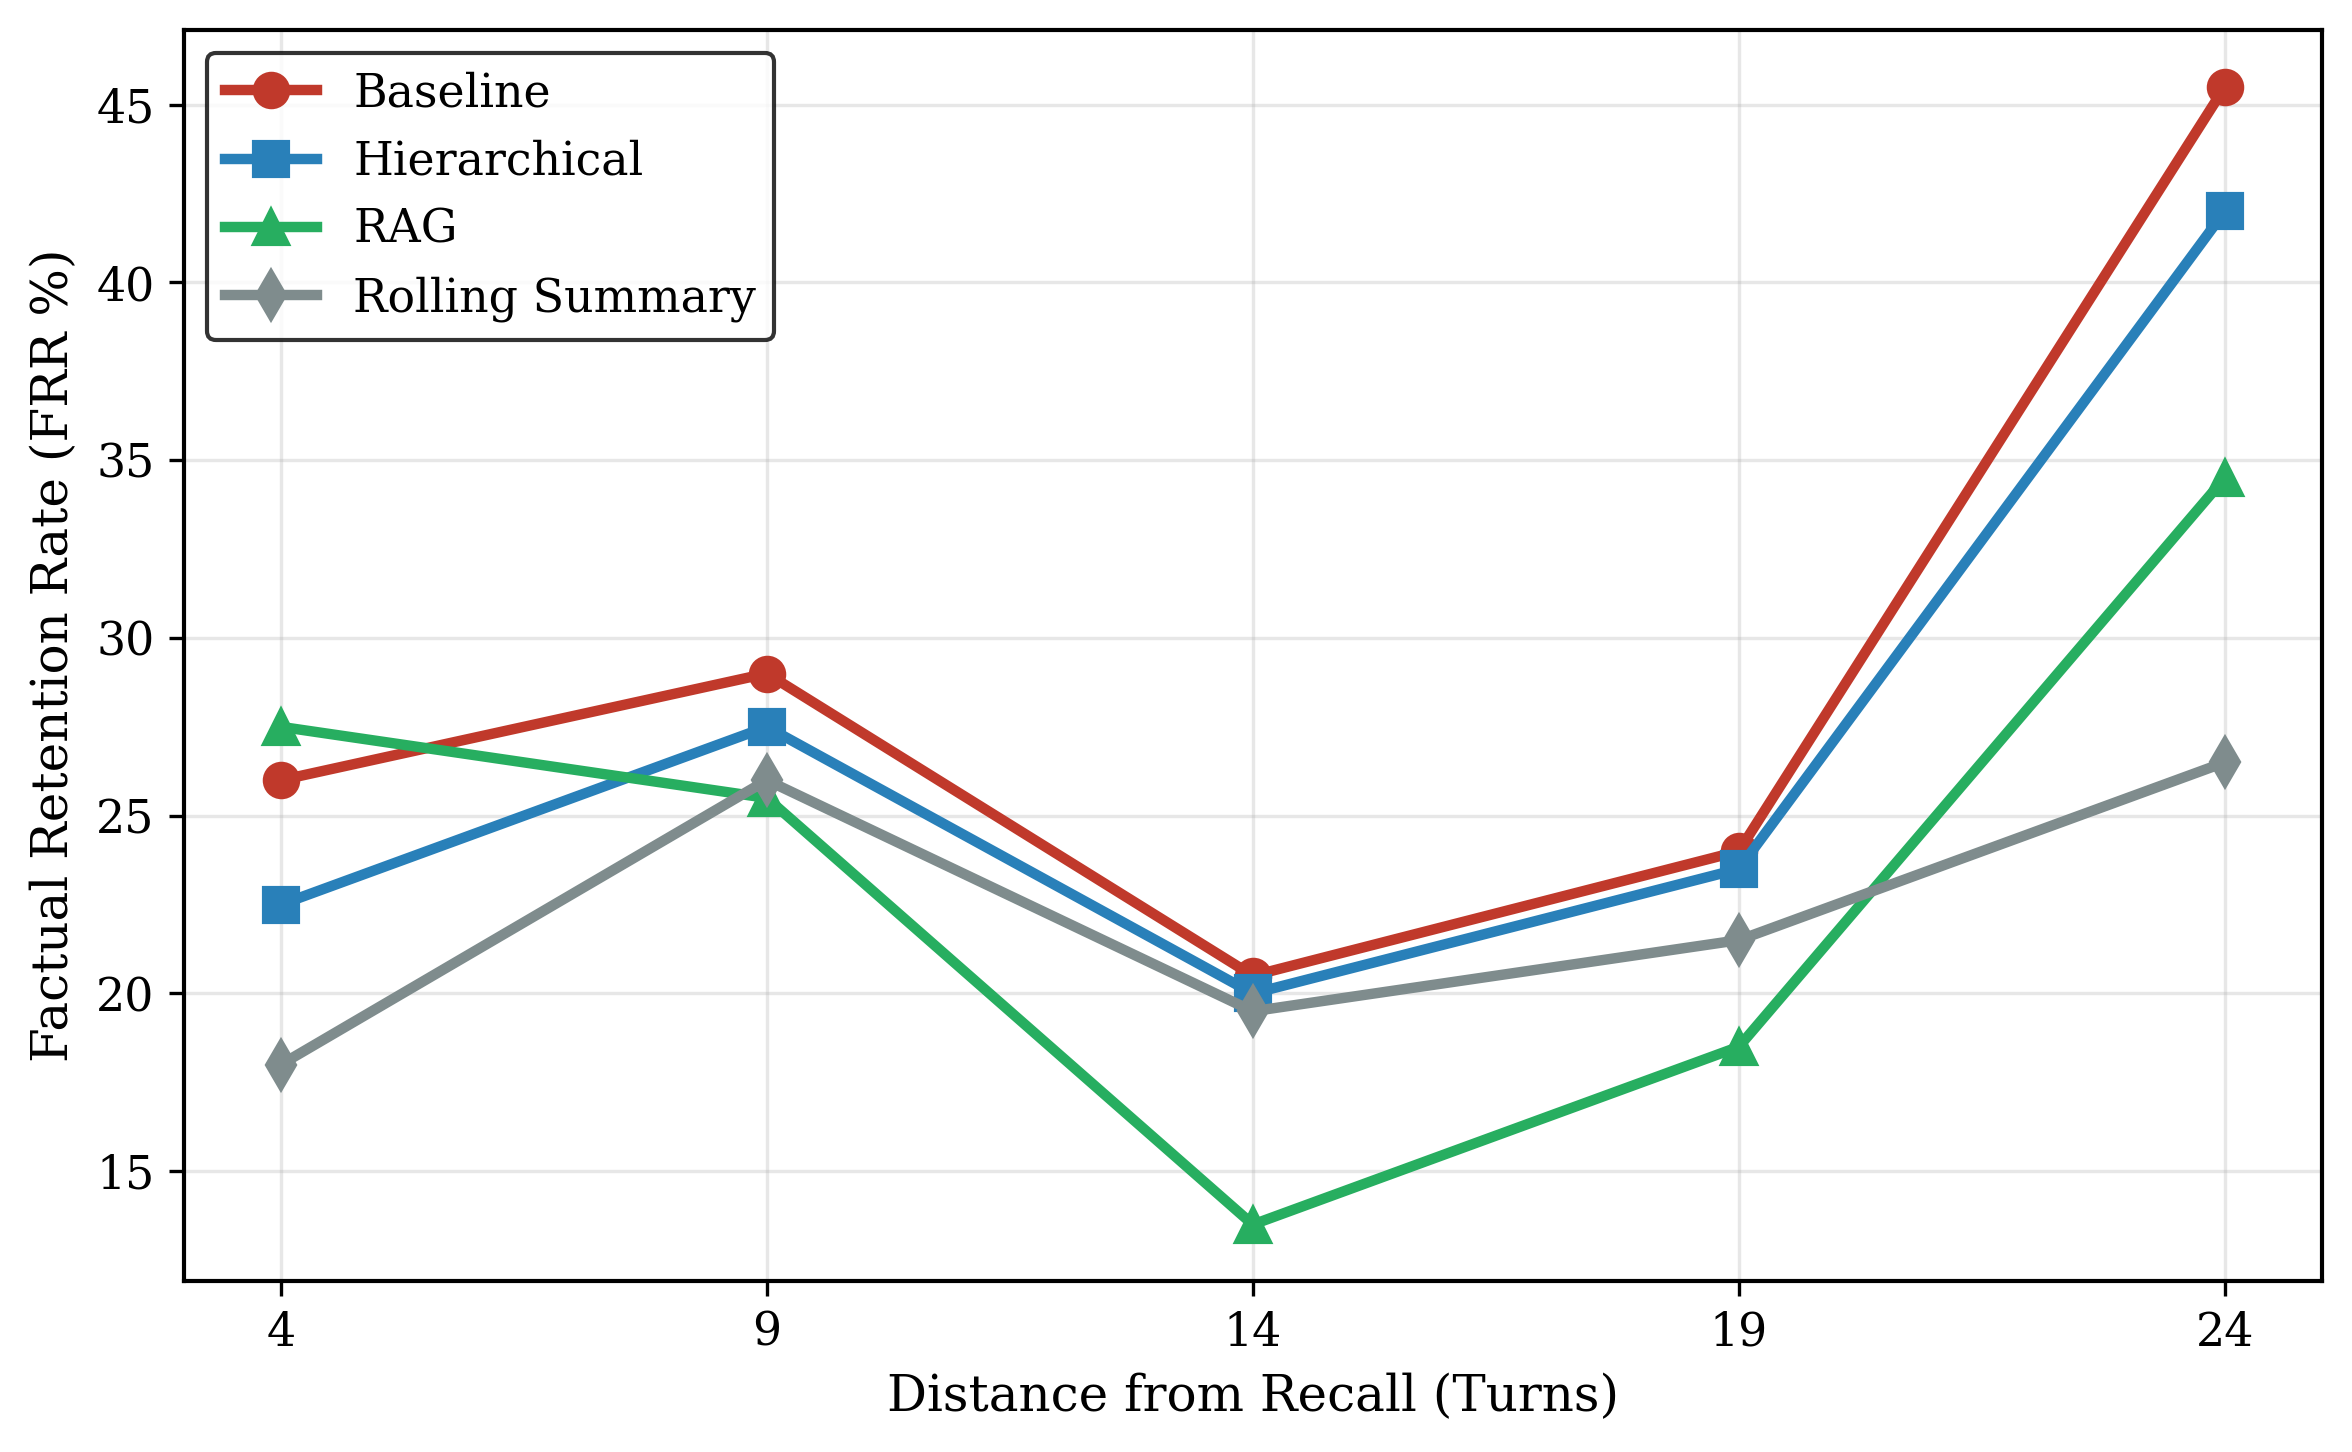
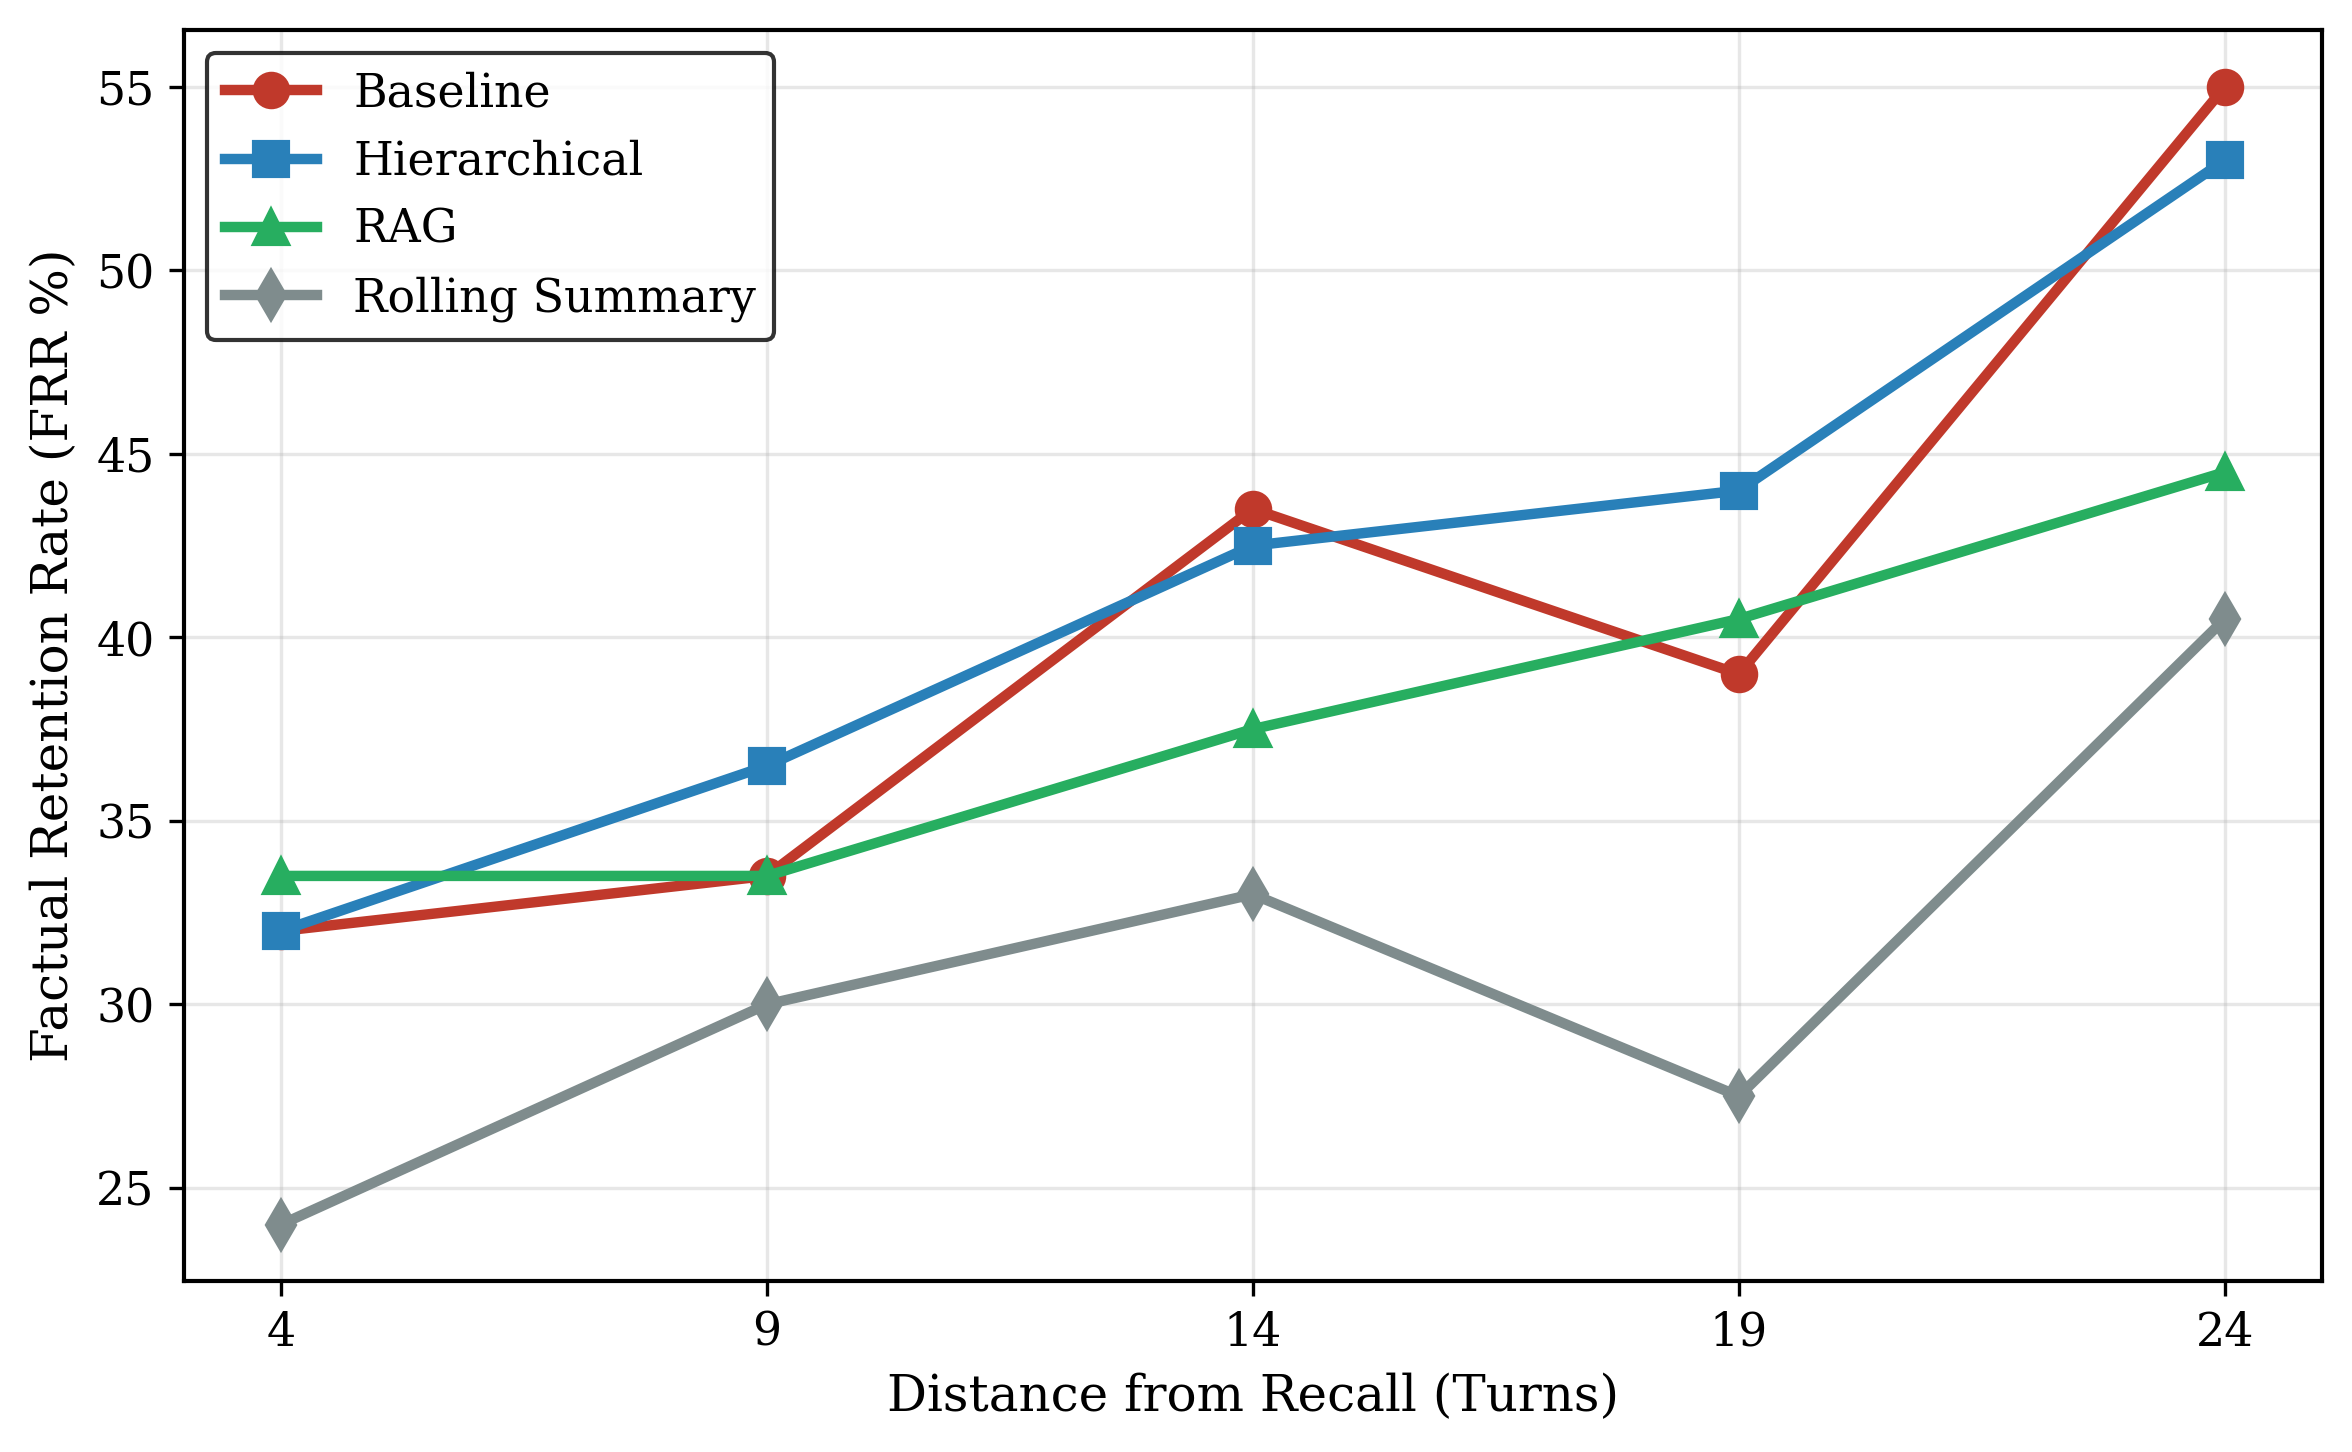
finalized it

diff --git a/analysis/get_plot_data.py b/analysis/get_plot_data.py
@@ -1,0 +1,70 @@
+import pandas as pd
+from pathlib import Path
+
+def process_raw_scored_data():
+    print("\n" + "="*60)
+    print(" 🛠 RECALCULATING PLOT 1 DATA FROM RAW SCORES (LENIENT)")
+    print("="*60)
+    
+    # Search for raw scored files
+    search_dirs = [Path('.'), Path('results'), Path('analysis/results')]
+    valid_files = []
+    
+    for directory in search_dirs:
+        if not directory.exists():
+            continue
+        for f in directory.glob('*scored*.csv'):
+            valid_files.append(f)
+            
+    valid_files = list(set(valid_files))
+    
+    if not valid_files:
+        print("❌ No files matching '*scored*.csv' found.")
+        return
+
+    print(f"✅ Found {len(valid_files)} raw scored CSV files. Processing...\n")
+    
+    dfs = []
+    for f in valid_files:
+        temp_df = pd.read_csv(f)
+        temp_df.columns = [str(c).lower().strip() for c in temp_df.columns]
+        dfs.append(temp_df)
+        
+    df = pd.concat(dfs, ignore_index=True)
+    
+    df['standard_distance'] = df['turn'] - 1 
+
+    # --- 2. APPLY LENIENT SCORING (THE BUG FIX) ---
+    def calculate_score(val):
+        val = str(val).upper()
+        if 'INCORRECT' in val:
+            return 0  # Fail it FIRST so it doesn't trigger the 'CORRECT' check
+        elif 'CORRECT' in val or 'PARTIAL' in val:
+            return 1
+        return 0
+        
+    df['is_success'] = df['judgment'].apply(calculate_score)
+
+    # --- 3. CALCULATE AVERAGES ---
+    grouped = df.groupby(['strategy', 'standard_distance'])['is_success'].mean().unstack() * 100
+    distances = sorted([int(d) for d in grouped.columns.tolist()])
+    
+    print("--- PASTE THESE ARRAYS INTO plot_1_primacy_effect.py ---\n")
+    print(f"distances = {distances}\n")
+    
+    for strategy in grouped.index:
+        # float() removes the ugly np.float64 text
+        values = [round(float(grouped.loc[strategy, d]), 1) for d in distances]
+        var_name = str(strategy).lower().replace(" ", "_")
+        print(f"{var_name} = {values}")
+
+    # --- 4. PROOF CHECK ---
+    print("\n" + "-"*60)
+    print("🎯 PROOF CHECK: OVERALL AVERAGES (Must match Table 1)")
+    print("-"*60)
+    overall_mean = df.groupby('strategy')['is_success'].mean() * 100
+    for strat, val in overall_mean.items():
+        print(f"{strat.capitalize()}: {val:.1f}%")
+
+if __name__ == "__main__":
+    process_raw_scored_data()

diff --git a/analysis/p_value.py b/analysis/p_value.py
@@ -1,0 +1,20 @@
+import pandas as pd
+from scipy import stats
+
+CSV_FILES = ["results/scored_legal.csv", "results/scored_medical.csv", "results/scored_tech.csv", "results/scored_travel.csv"]
+
+# Load and prepare data
+df = pd.concat([pd.read_csv(f) for f in CSV_FILES], ignore_index=True)
+df['is_success'] = df['judgment'].isin(['CORRECT', 'PARTIAL']).astype(int)
+
+# Group by script_id and repetition to get paired scores
+paired_data = df.groupby(['script_id', 'repetition', 'strategy'])['is_success'].mean().unstack()
+
+# Run Paired T-Test between Hierarchical and Baseline
+t_stat, p_val = stats.ttest_rel(paired_data['hierarchical'], paired_data['baseline'])
+
+print(f"P-value: {p_val:.4f}")
+if p_val < 0.05:
+    print("Result is STATISTICALLY SIGNIFICANT!")
+else:
+    print("Result is NOT statistically significant.")

diff --git a/analysis/graphical_view.py b/analysis/graphical_view.py
@@ -38,10 +38,10 @@ def plot_primacy_effect():
     distances = [4, 9, 14, 19, 24]
     
     # Y-axis data 
-    baseline = [26.0, 29.0, 20.5, 24.0, 45.5]
-    hierarchical = [22.5, 27.5, 20.0, 23.5, 42.0]
-    rag = [27.5, 25.5, 13.5, 18.5, 34.5]
-    rolling = [18.0, 26.0, 19.5, 21.5, 26.5]
+    baseline = [32.0, 33.5, 43.5, 39.0, 55.0]
+    hierarchical = [32.0, 36.5, 42.5, 44.0, 53.0]
+    rag = [33.5, 33.5, 37.5, 40.5, 44.5]
+    rolling = [24.0, 30.0, 33.0, 27.5, 40.5]
 
     ax.plot(distances, baseline, marker='o', markersize=8, linewidth=2.5, color=color_base, label='Baseline')
     ax.plot(distances, hierarchical, marker='s', markersize=8, linewidth=2.5, color=color_hier, label='Hierarchical')
